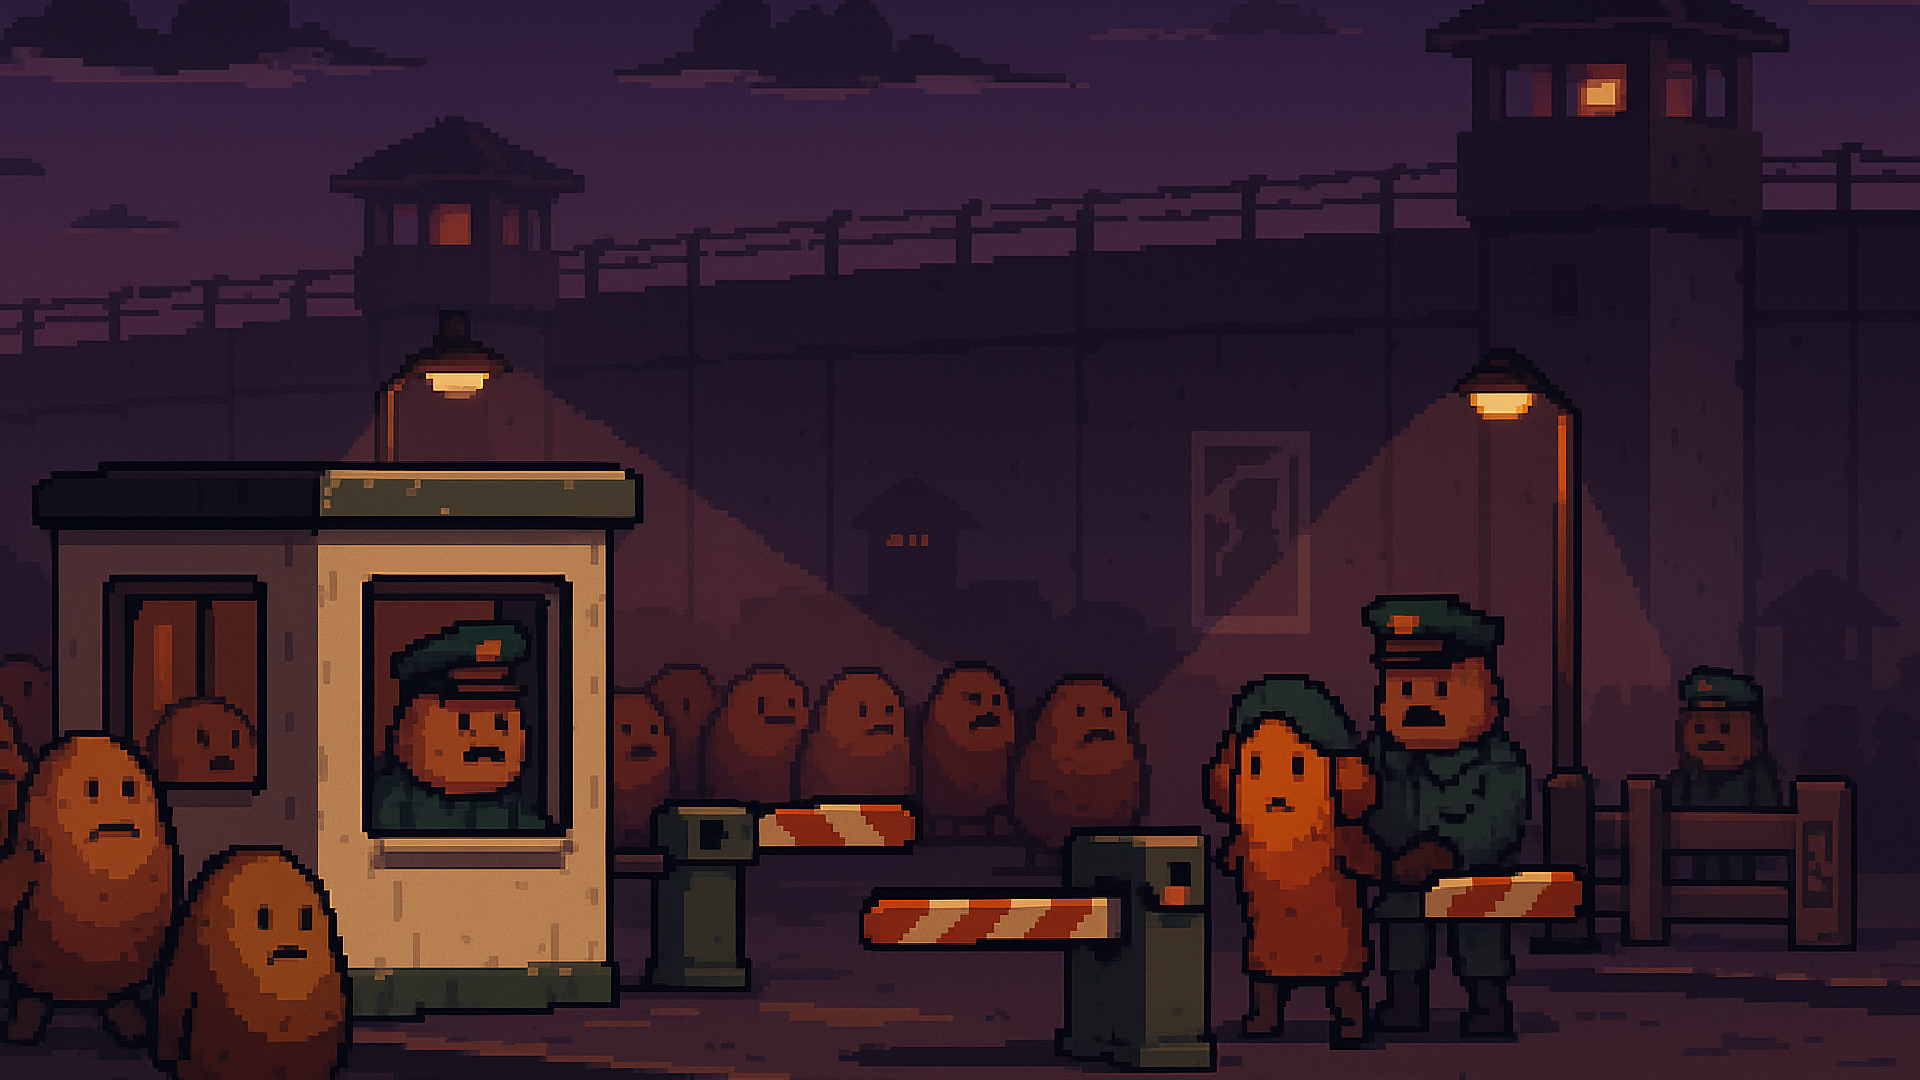
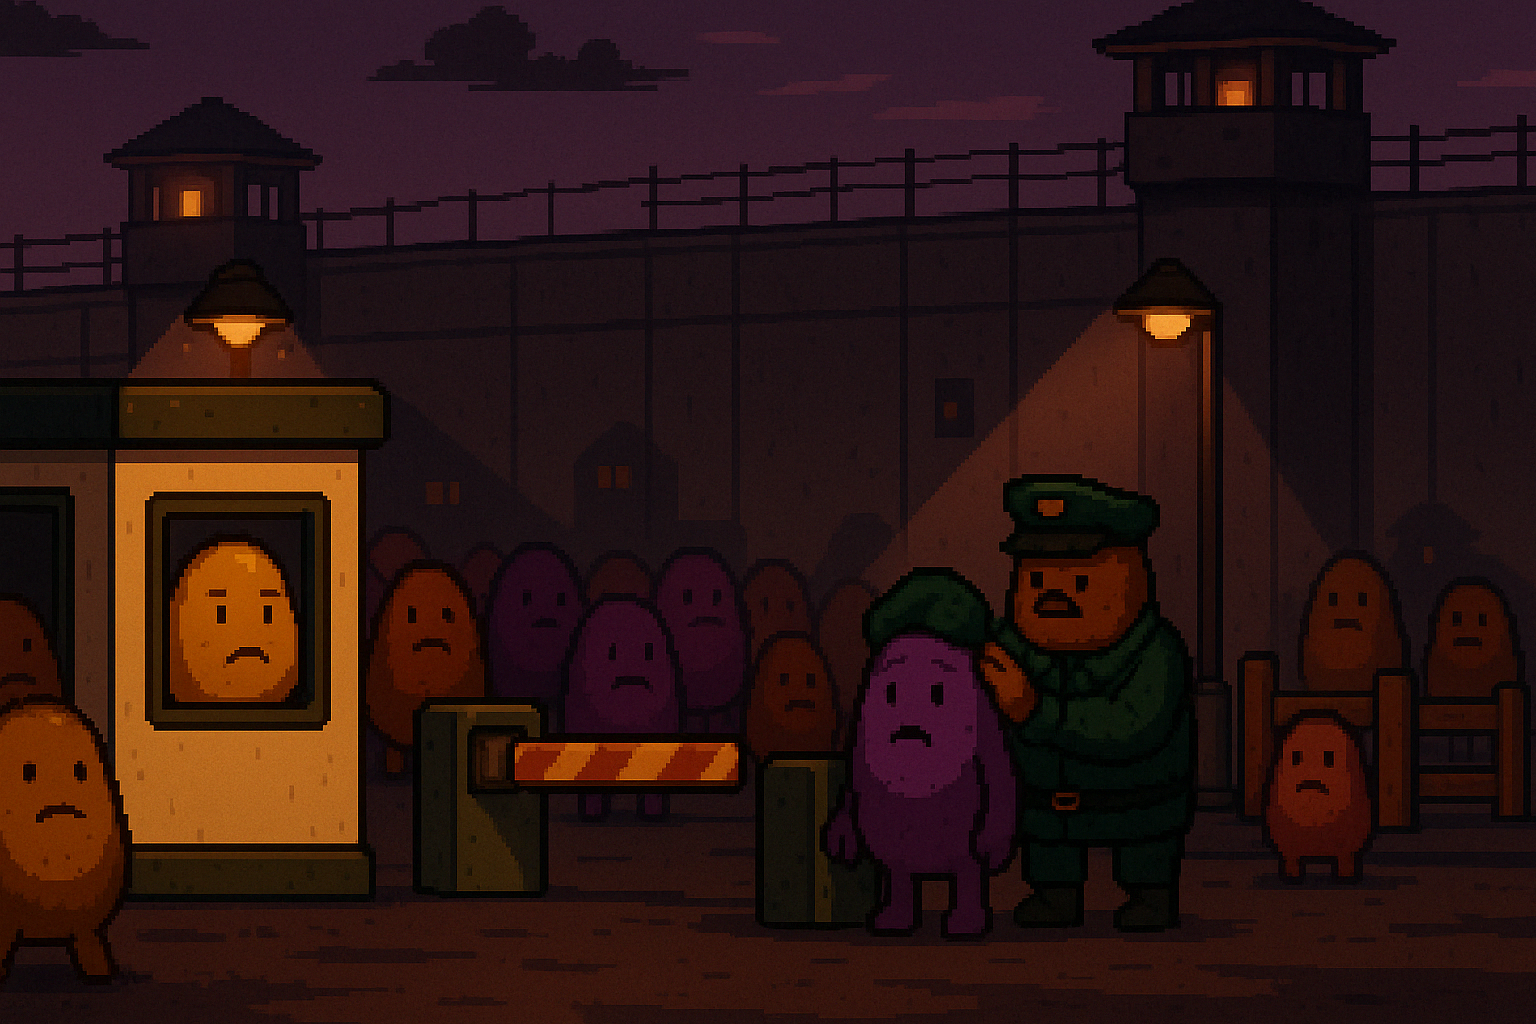
Updating the artwork

diff --git a/project_management/scratch_pad.md b/project_management/scratch_pad.md
@@ -100,10 +100,10 @@ These are our goals, to-do tasks, and completed tasks.
 
 ### Graphics  
 - Stamp System: Why are the particle effects not visible / not triggering when a perfect stamp is placed in the top and middle 1/3rd of a document?
+- Add visual feedback for combo multipliers with perfect stamps
 
 ### Gameplay
 - Allow missiles to kill approved potatoes, resulting in 250 points removed and a strike added, with a flavor alert about a Totneva Convention violation
-- Add visual feedback for combo multipliers with perfect stamps
 - Add a small chance to run while waiting in line for each potato in addition to the rejection chance and global timer chance
 
 ### Audio
@@ -114,27 +114,28 @@ These are our goals, to-do tasks, and completed tasks.
 
 ### Testing
 - Test narrative and stats-based achievements
-- Test leaderboards for each shift and difficulty
+- Test leaderboards for each shift and difficulty, and score attack mode
 - Playtest: Beat Story mode, and test each of the 4 endings (Vengeance Complete)
 
 ### Art
-- loyalist_outcome, too human
-- night attack, human man in background
-- night_checkpoint, messed up characters
-- personal quarters, style break, random
 - plant_revelation, goopy potatoes
-- processing_facility, remove random messed up potatoes
 - reckoning, fix grain
 - resistance_planning, emblems should be potatoes, potatoes should not have armor, leader should look more like old white mustache russet potato
-- security_lockdown, washed out
 - victory_scene, fucked up faces
+- extreme_emergency, washed out
 
 ### Credits
 
 
 ### Completed Tasks for 1.1.0
-- checkpoint_interior, fix hat direction
-- border chaos, fix dog-face man and best employee picture
+- updated art for loyalist_outcome, too human
+- updated art for night_checkpoint, messed up characters
+- updated art for processing_facility, remove random messed up potatoes
+- updated art for personal quarters, style break, random
+- updated art for security_lockdown, washed out
+- updated art for night_attack, remove human man in background
+- updated art for checkpoint_interior, fix hat direction
+- updated art for border_chaos, fix dog-face man and best employee picture
 - Disable narrative manager when in score attack mode
 - Shift end bonus not applying properly
 - Fix audio reference issues with gunshots in vengeance ending
